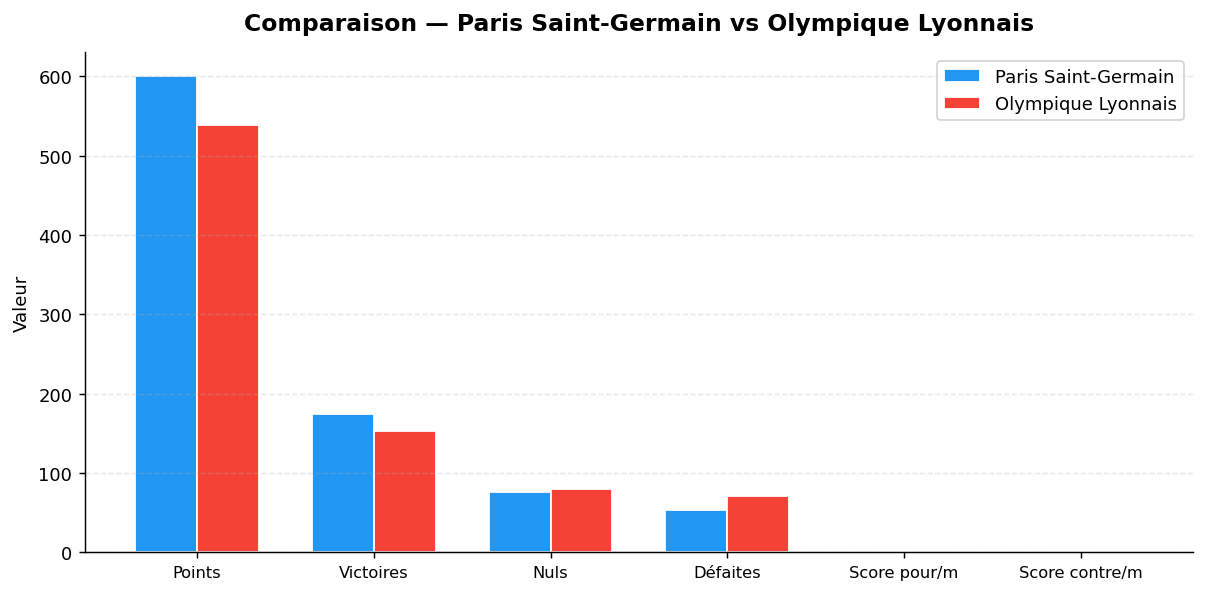
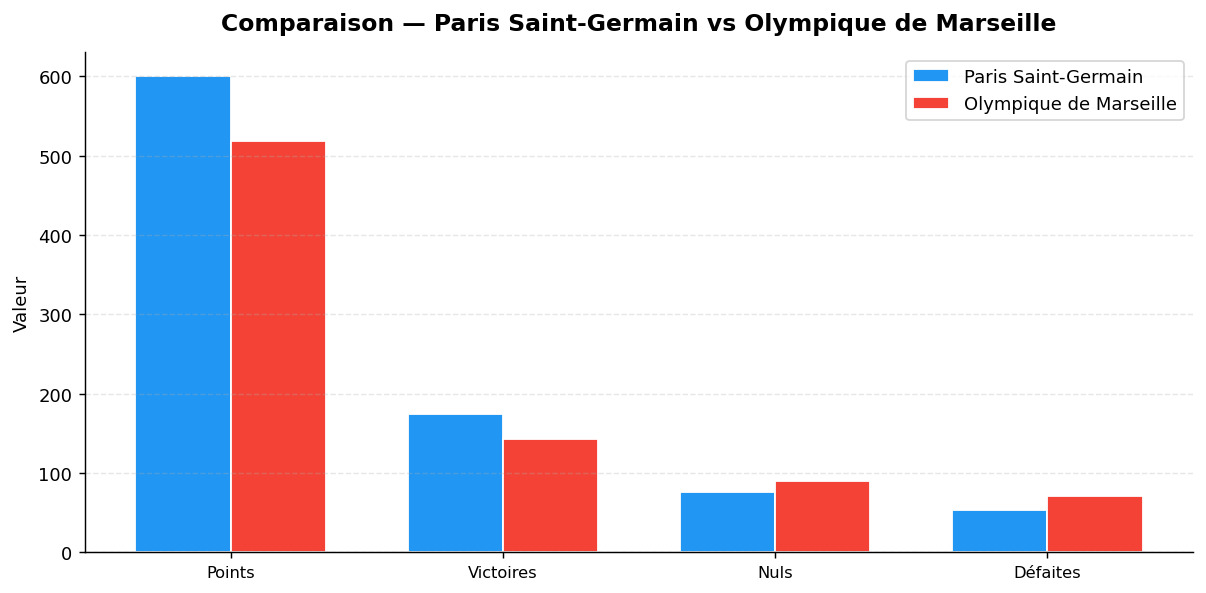
changement

diff --git a/src/visualizer/GraphiquesSport.py b/src/visualizer/GraphiquesSport.py
@@ -696,12 +696,9 @@ def graph_comparaison_equipes(sport: str, nom1: str, nom2: str) -> str:
     if e1 is None or e2 is None:
         raise ValueError(f"Une des équipes introuvable.")
 
-    mj1, mj2 = e1.matchs_joues or 1, e2.matchs_joues or 1
-    metrics = ["Points", "Victoires", "Nuls", "Défaites", "Score pour/m", "Score contre/m"]
-    vals1 = [e1.points, e1.victoires, e1.nuls, e1.defaites,
-             round(e1.score_pour / mj1, 1), round(e1.score_contre / mj1, 1)]
-    vals2 = [e2.points, e2.victoires, e2.nuls, e2.defaites,
-             round(e2.score_pour / mj2, 1), round(e2.score_contre / mj2, 1)]
+    metrics = ["Points", "Victoires", "Nuls", "Défaites"]
+    vals1 = [e1.points, e1.victoires, e1.nuls, e1.defaites]
+    vals2 = [e2.points, e2.victoires, e2.nuls, e2.defaites]
 
     x = np.arange(len(metrics))
     w = 0.35

diff --git a/src/loader/CompetitionLoader.py b/src/loader/CompetitionLoader.py
@@ -72,7 +72,9 @@ class FootballCompetitionLoader:
 
         lid = self._choisir_ligue(leagues, countries, lg_ctry)
         if lid is None:
-            return saison == self._choisir_saison(df_match) if choix in ["1", "2", "3"] else None
+            return 
+        
+        saison = self._choisir_saison(df_match) if choix in ["1", "2", "3"] else None
 
         df = df_match.copy()
         if lid: df = df[df["league_id"] == lid]
